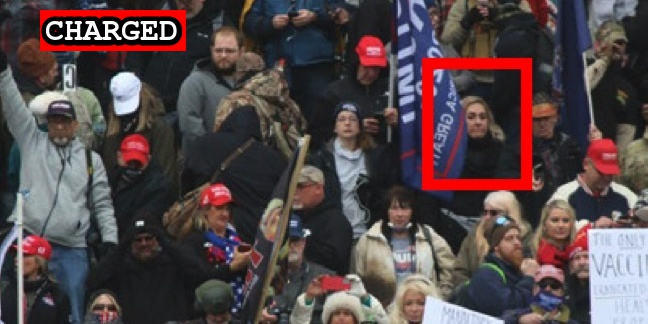
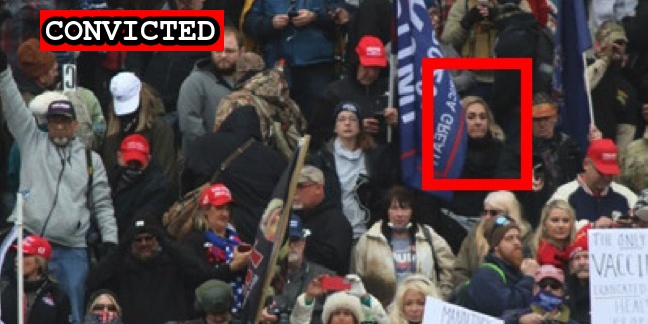
Guilty plea

Changed region(s): [[0.0926, 0.0309, 0.3704, 0.1852]]

diff --git a/docs/_suspects/brittiany-dillon.md b/docs/_suspects/brittiany-dillon.md
@@ -3,11 +3,11 @@ name: Brittiany Dillon
 lastName: Dillon
 aka:
 residence: Maryland
-status: Charged
+status: Convicted
 date: 2021-04-26
 charged: 2021-04-26
 indicted:
-convicted: 
+convicted: 2021-07-15
 sentenced:
 dismissed: 
 deceased:
